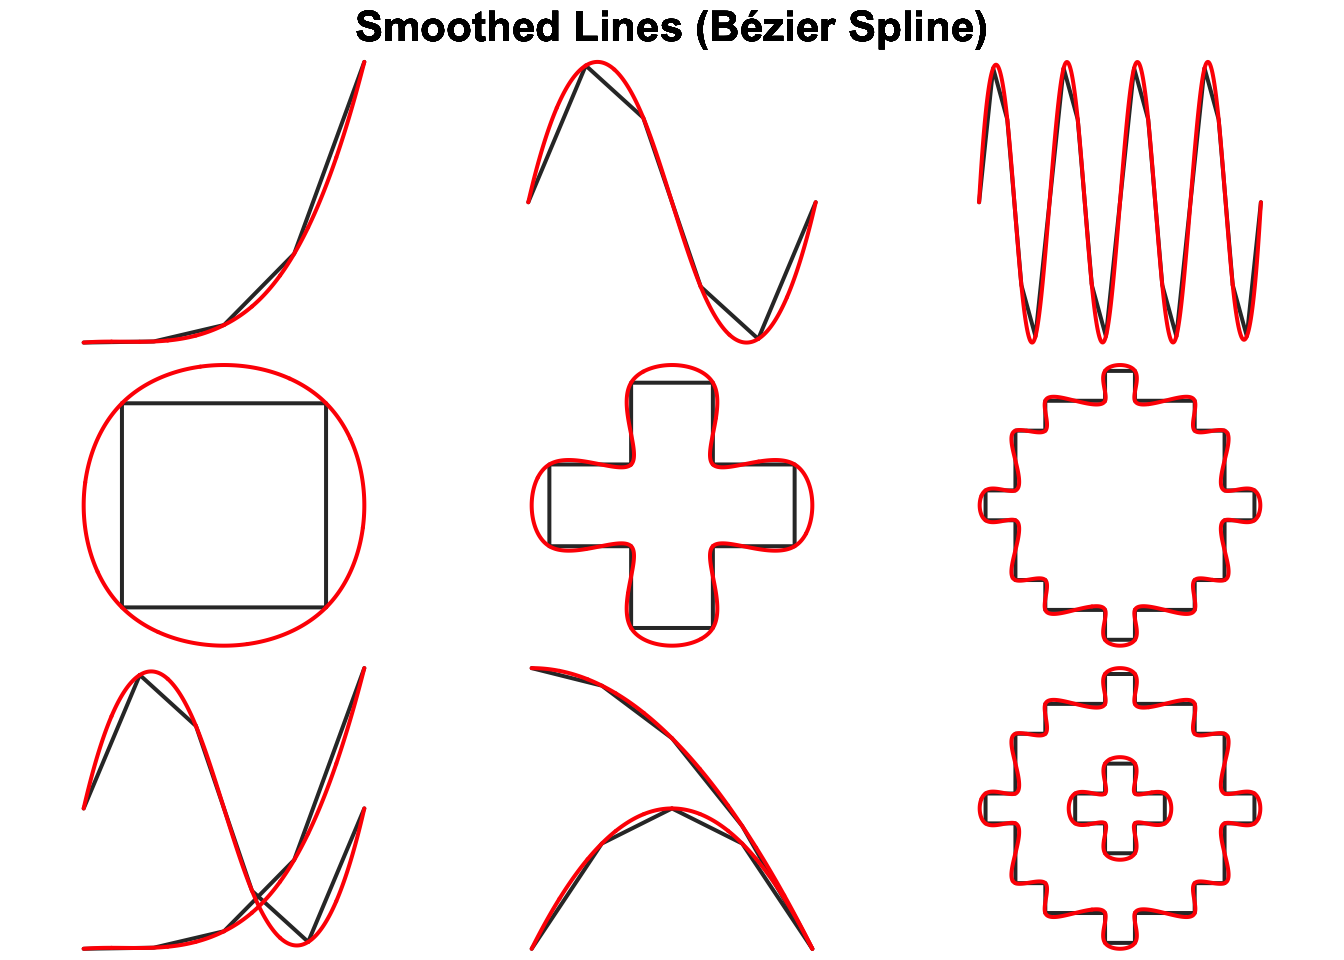
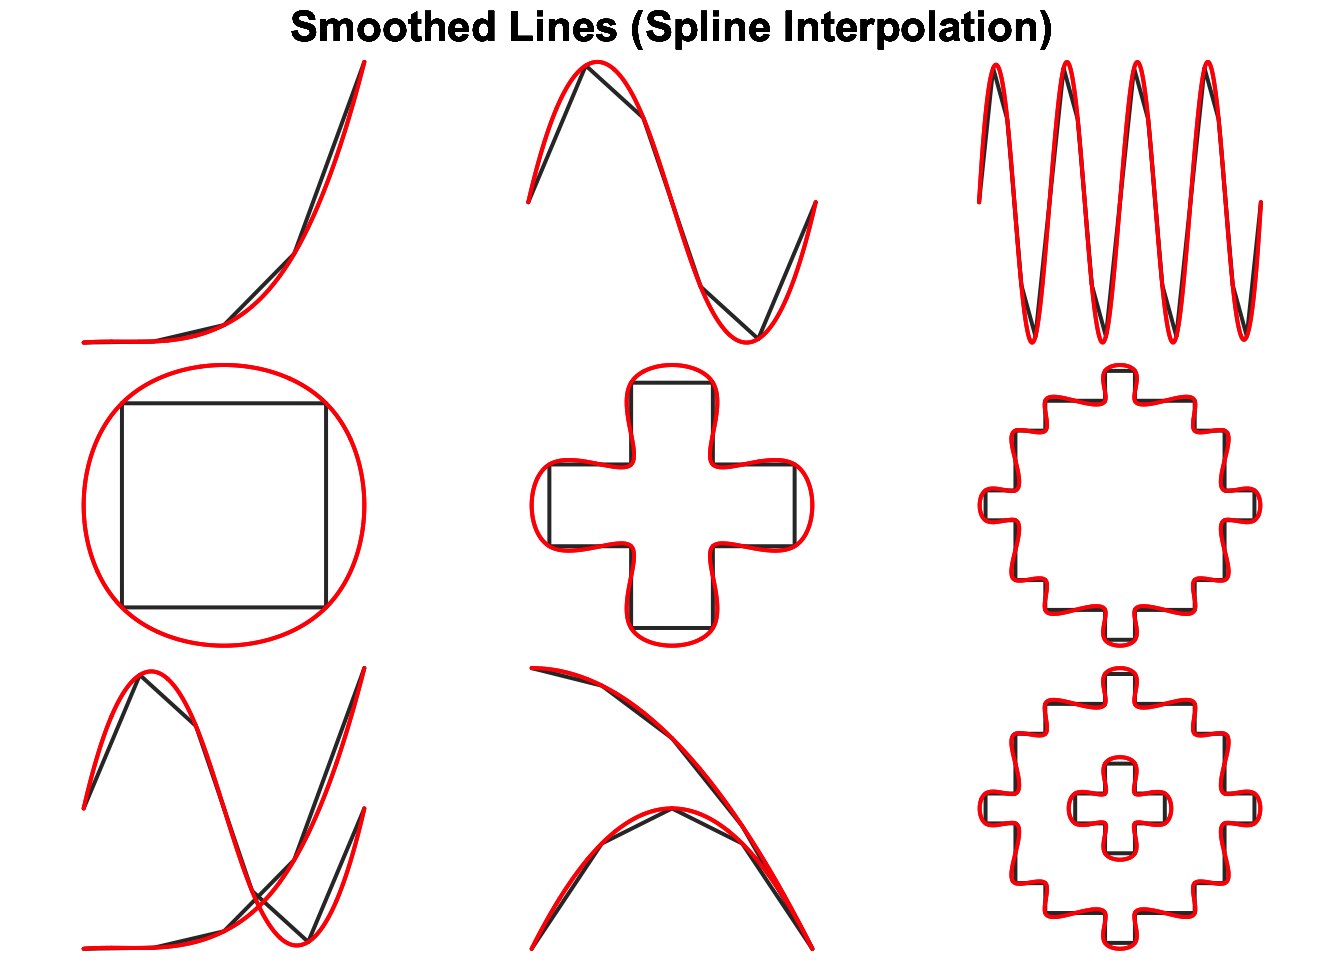
chaikin's corner cutting

Changed region(s): [[0.2188, 0.0, 0.7812, 0.0625]]

diff --git a/docs/reference/smooth.html b/docs/reference/smooth.html
@@ -87,7 +87,7 @@
     <p>Smooth a spatial feature</p>
     
 
-    <pre class="usage"><span class='fu'>smooth</span>(<span class='no'>x</span>, <span class='kw'>method</span> <span class='kw'>=</span> <span class='fu'>c</span>(<span class='st'>"spline"</span>))</pre>
+    <pre class="usage"><span class='fu'>smooth</span>(<span class='no'>x</span>, <span class='kw'>method</span> <span class='kw'>=</span> <span class='fu'>c</span>(<span class='st'>"spline"</span>, <span class='st'>"chaikin"</span>))</pre>
     
     <h2 class="hasAnchor" id="arguments"><a class="anchor" href="#arguments"></a> Arguments</h2>
     <table class="ref-arguments">
@@ -101,10 +101,12 @@ packages.</p></td>
       <th>method</th>
       <td><p>character; specifies the type of smoothing method to use.
 Possible methods are:</p><ul>
-<li><p><code>"spline"</code>: uses spline interpolation via the <code><a href='http://www.rdocumentation.org/packages/stats/topics/splinefun'>stats::spline()</a></code>
-function. This method interpolates between existing vertices and the
-resulting smoothed feature will pass through the vertices of the input
-feature.</p></li>
+<li><p><code>"spline"</code>: spline interpolation via the <code><a href='http://www.rdocumentation.org/packages/stats/topics/splinefun'>stats::spline()</a></code> function. This
+method interpolates between existing vertices and the resulting smoothed
+feature will pass through the vertices of the input feature.</p></li>
+<li><p><code>"chaikin"</code>: Chaikin's corner cutting algorithm, which smooths a line by
+iteratively replacing every point by two new points: one 25<!-- % of the way to -->
+the next point and one 25<!-- % of the way to the previous point. --></p></li>
 </ul></td>
     </tr>
     </table>
@@ -115,15 +117,22 @@ feature.</p></li>
     
     <h2 class="hasAnchor" id="references"><a class="anchor" href="#references"></a>References</h2>
 
-    <p>This function was inspired by the following StackExchange posts:</p><ul>
-<li><p><a href='https://stackoverflow.com/questions/26087772/#26089377'>Create polygon from set of points distributed</a></p></li>
-<li><p><a href='https://gis.stackexchange.com/questions/24827/#24929'>Smoothing polygons in contour map?</a></p></li>
+    <p>A variety of resources were used in the implementation of each of
+the methods in this function. The spline method was inspired by the
+following StackExchange posts:</p><ul>
+<li><p><a href='https://stackoverflow.com/questions/26087772/26089377'>Create polygon from set of points distributed</a></p></li>
+<li><p><a href='https://gis.stackexchange.com/questions/24827/24929'>Smoothing polygons in contour map?</a></p></li>
+</ul>
+    <p>Chaikin's corner curring algorithm was based on:</p><ul>
+<li><p><code>Chaikin, G. An algorithm for high speed curve generation. Computer Graphics and Image Processing 3 (1974), 346–349</code></p></li>
+<li><p><a href='https://stackoverflow.com/a/47255374/3591386'>Where to find Python implementation of Chaikin's corner cutting algorithm?</a></p></li>
 </ul>
     
 
     <h2 class="hasAnchor" id="examples"><a class="anchor" href="#examples"></a>Examples</h2>
-    <pre class="examples"><div class='input'><span class='fu'>library</span>(<span class='no'>sf</span>)</div><div class='output co'>#&gt; <span class='message'>Linking to GEOS 3.6.1, GDAL 2.1.3, proj.4 4.9.3</span></div><div class='input'><span class='co'># spline smoothing</span>
-<span class='co'># example polygons</span>
+    <pre class="examples"><div class='input'><span class='fu'>library</span>(<span class='no'>sf</span>)
+<span class='co'># spline interpolation</span>
+<span class='co'># polygons</span>
 <span class='no'>po</span> <span class='kw'>&lt;-</span> <span class='fu'>par</span>(<span class='kw'>mar</span> <span class='kw'>=</span> <span class='fu'>c</span>(<span class='fl'>0</span>, <span class='fl'>0</span>, <span class='fl'>0</span>, <span class='fl'>0</span>), <span class='kw'>oma</span> <span class='kw'>=</span> <span class='fu'>c</span>(<span class='fl'>0</span>, <span class='fl'>0</span>, <span class='fl'>2</span>, <span class='fl'>0</span>), <span class='kw'>mfrow</span> <span class='kw'>=</span> <span class='fu'>c</span>(<span class='fl'>3</span>, <span class='fl'>3</span>))
 <span class='kw'>for</span> (<span class='no'>i</span> <span class='kw'>in</span> <span class='fl'>1</span>:<span class='fu'>nrow</span>(<span class='no'>jagged_polygons</span>)) {
   <span class='no'>p</span> <span class='kw'>&lt;-</span> <span class='no'>jagged_polygons</span>[<span class='no'>i</span>, ]
@@ -132,9 +141,8 @@ feature.</p></li>
   <span class='fu'><a href='http://www.rdocumentation.org/packages/sf/topics/plot'>plot</a></span>(<span class='fu'><a href='http://www.rdocumentation.org/packages/sf/topics/st_geometry'>st_geometry</a></span>(<span class='no'>p</span>), <span class='kw'>col</span> <span class='kw'>=</span> <span class='st'>"grey20"</span>, <span class='kw'>border</span> <span class='kw'>=</span> <span class='fl'>NA</span>, <span class='kw'>add</span> <span class='kw'>=</span> <span class='fl'>TRUE</span>)
   <span class='fu'><a href='http://www.rdocumentation.org/packages/sf/topics/plot'>plot</a></span>(<span class='fu'><a href='http://www.rdocumentation.org/packages/sf/topics/st_geometry'>st_geometry</a></span>(<span class='no'>smoothed</span>), <span class='kw'>col</span> <span class='kw'>=</span> <span class='fl'>NA</span>, <span class='kw'>border</span> <span class='kw'>=</span> <span class='st'>"red"</span>, <span class='kw'>lwd</span> <span class='kw'>=</span> <span class='fl'>2</span>, <span class='kw'>add</span> <span class='kw'>=</span> <span class='fl'>TRUE</span>)
   <span class='fu'>title</span>(<span class='st'>"Smoothed Polygons (Spline Interpolation)"</span>, <span class='kw'>cex.main</span> <span class='kw'>=</span> <span class='fl'>2</span>, <span class='kw'>outer</span> <span class='kw'>=</span> <span class='fl'>TRUE</span>)
-}</div><div class='img'><img src='smooth-1.png' alt='' width='700' height='432.632880098887' /></div><div class='input'><span class='fu'>par</span>(<span class='no'>po</span>)
-
-<span class='co'># example lines</span>
+}</div><div class='img'><img src='smooth-9.png' alt='' width='700' height='432.632880098887' /></div><div class='input'><span class='fu'>par</span>(<span class='no'>po</span>)
+<span class='co'># lines</span>
 <span class='no'>po</span> <span class='kw'>&lt;-</span> <span class='fu'>par</span>(<span class='kw'>mar</span> <span class='kw'>=</span> <span class='fu'>c</span>(<span class='fl'>0</span>, <span class='fl'>0</span>, <span class='fl'>0</span>, <span class='fl'>0</span>), <span class='kw'>oma</span> <span class='kw'>=</span> <span class='fu'>c</span>(<span class='fl'>0</span>, <span class='fl'>0</span>, <span class='fl'>2</span>, <span class='fl'>0</span>), <span class='kw'>mfrow</span> <span class='kw'>=</span> <span class='fu'>c</span>(<span class='fl'>3</span>, <span class='fl'>3</span>))
 <span class='kw'>for</span> (<span class='no'>i</span> <span class='kw'>in</span> <span class='fl'>1</span>:<span class='fu'>nrow</span>(<span class='no'>jagged_lines</span>)) {
   <span class='no'>l</span> <span class='kw'>&lt;-</span> <span class='no'>jagged_lines</span>[<span class='no'>i</span>, ]
@@ -143,7 +151,27 @@ feature.</p></li>
   <span class='fu'><a href='http://www.rdocumentation.org/packages/sf/topics/plot'>plot</a></span>(<span class='fu'><a href='http://www.rdocumentation.org/packages/sf/topics/st_geometry'>st_geometry</a></span>(<span class='no'>l</span>), <span class='kw'>col</span> <span class='kw'>=</span> <span class='st'>"grey20"</span>, <span class='kw'>lwd</span> <span class='kw'>=</span> <span class='fl'>2</span>, <span class='kw'>add</span> <span class='kw'>=</span> <span class='fl'>TRUE</span>)
   <span class='fu'><a href='http://www.rdocumentation.org/packages/sf/topics/plot'>plot</a></span>(<span class='fu'><a href='http://www.rdocumentation.org/packages/sf/topics/st_geometry'>st_geometry</a></span>(<span class='no'>smoothed</span>), <span class='kw'>col</span> <span class='kw'>=</span> <span class='st'>"red"</span>, <span class='kw'>lwd</span> <span class='kw'>=</span> <span class='fl'>2</span>, <span class='kw'>add</span> <span class='kw'>=</span> <span class='fl'>TRUE</span>)
   <span class='fu'>title</span>(<span class='st'>"Smoothed Lines (Spline Interpolation)"</span>, <span class='kw'>cex.main</span> <span class='kw'>=</span> <span class='fl'>2</span>, <span class='kw'>outer</span> <span class='kw'>=</span> <span class='fl'>TRUE</span>)
-}</div><div class='img'><img src='smooth-2.png' alt='' width='700' height='432.632880098887' /></div><div class='input'><span class='fu'>par</span>(<span class='no'>po</span>)</div></pre>
+}</div><div class='img'><img src='smooth-10.png' alt='' width='700' height='432.632880098887' /></div><div class='input'><span class='fu'>par</span>(<span class='no'>po</span>)
+
+<span class='co'># chaikin's corner cutting</span>
+<span class='co'># polygons</span>
+<span class='no'>po</span> <span class='kw'>&lt;-</span> <span class='fu'>par</span>(<span class='kw'>mar</span> <span class='kw'>=</span> <span class='fu'>c</span>(<span class='fl'>0</span>, <span class='fl'>0</span>, <span class='fl'>0</span>, <span class='fl'>0</span>), <span class='kw'>oma</span> <span class='kw'>=</span> <span class='fu'>c</span>(<span class='fl'>0</span>, <span class='fl'>0</span>, <span class='fl'>2</span>, <span class='fl'>0</span>), <span class='kw'>mfrow</span> <span class='kw'>=</span> <span class='fu'>c</span>(<span class='fl'>3</span>, <span class='fl'>3</span>))
+<span class='kw'>for</span> (<span class='no'>i</span> <span class='kw'>in</span> <span class='fl'>1</span>:<span class='fu'>nrow</span>(<span class='no'>jagged_polygons</span>)) {
+  <span class='no'>p</span> <span class='kw'>&lt;-</span> <span class='no'>jagged_polygons</span>[<span class='no'>i</span>, ]
+  <span class='no'>smoothed</span> <span class='kw'>&lt;-</span> <span class='fu'>smooth</span>(<span class='no'>p</span>, <span class='kw'>method</span> <span class='kw'>=</span> <span class='st'>"chaikin"</span>)
+  <span class='fu'><a href='http://www.rdocumentation.org/packages/sf/topics/plot'>plot</a></span>(<span class='fu'><a href='http://www.rdocumentation.org/packages/sf/topics/st_geometry'>st_geometry</a></span>(<span class='no'>p</span>), <span class='kw'>col</span> <span class='kw'>=</span> <span class='st'>"grey20"</span>, <span class='kw'>border</span> <span class='kw'>=</span> <span class='fl'>NA</span>)
+  <span class='fu'><a href='http://www.rdocumentation.org/packages/sf/topics/plot'>plot</a></span>(<span class='fu'><a href='http://www.rdocumentation.org/packages/sf/topics/st_geometry'>st_geometry</a></span>(<span class='no'>smoothed</span>), <span class='kw'>col</span> <span class='kw'>=</span> <span class='fl'>NA</span>, <span class='kw'>border</span> <span class='kw'>=</span> <span class='st'>"red"</span>, <span class='kw'>lwd</span> <span class='kw'>=</span> <span class='fl'>2</span>, <span class='kw'>add</span> <span class='kw'>=</span> <span class='fl'>TRUE</span>)
+  <span class='fu'>title</span>(<span class='st'>"Smoothed Polygons (Chaikin's Corner Cutting)"</span>, <span class='kw'>cex.main</span> <span class='kw'>=</span> <span class='fl'>2</span>, <span class='kw'>outer</span> <span class='kw'>=</span> <span class='fl'>TRUE</span>)
+}</div><div class='img'><img src='smooth-11.png' alt='' width='700' height='432.632880098887' /></div><div class='input'><span class='fu'>par</span>(<span class='no'>po</span>)
+<span class='co'># lines</span>
+<span class='no'>po</span> <span class='kw'>&lt;-</span> <span class='fu'>par</span>(<span class='kw'>mar</span> <span class='kw'>=</span> <span class='fu'>c</span>(<span class='fl'>0</span>, <span class='fl'>0</span>, <span class='fl'>0</span>, <span class='fl'>0</span>), <span class='kw'>oma</span> <span class='kw'>=</span> <span class='fu'>c</span>(<span class='fl'>0</span>, <span class='fl'>0</span>, <span class='fl'>2</span>, <span class='fl'>0</span>), <span class='kw'>mfrow</span> <span class='kw'>=</span> <span class='fu'>c</span>(<span class='fl'>3</span>, <span class='fl'>3</span>))
+<span class='kw'>for</span> (<span class='no'>i</span> <span class='kw'>in</span> <span class='fl'>1</span>:<span class='fu'>nrow</span>(<span class='no'>jagged_lines</span>)) {
+  <span class='no'>l</span> <span class='kw'>&lt;-</span> <span class='no'>jagged_lines</span>[<span class='no'>i</span>, ]
+  <span class='no'>smoothed</span> <span class='kw'>&lt;-</span> <span class='fu'>smooth</span>(<span class='no'>l</span>, <span class='kw'>method</span> <span class='kw'>=</span> <span class='st'>"chaikin"</span>)
+  <span class='fu'><a href='http://www.rdocumentation.org/packages/sf/topics/plot'>plot</a></span>(<span class='fu'><a href='http://www.rdocumentation.org/packages/sf/topics/st_geometry'>st_geometry</a></span>(<span class='no'>l</span>), <span class='kw'>col</span> <span class='kw'>=</span> <span class='st'>"grey20"</span>, <span class='kw'>lwd</span> <span class='kw'>=</span> <span class='fl'>2</span>)
+  <span class='fu'><a href='http://www.rdocumentation.org/packages/sf/topics/plot'>plot</a></span>(<span class='fu'><a href='http://www.rdocumentation.org/packages/sf/topics/st_geometry'>st_geometry</a></span>(<span class='no'>smoothed</span>), <span class='kw'>col</span> <span class='kw'>=</span> <span class='st'>"red"</span>, <span class='kw'>lwd</span> <span class='kw'>=</span> <span class='fl'>2</span>, <span class='kw'>add</span> <span class='kw'>=</span> <span class='fl'>TRUE</span>)
+  <span class='fu'>title</span>(<span class='st'>"Smoothed Lines (Chaikin's Corner Cutting)"</span>, <span class='kw'>cex.main</span> <span class='kw'>=</span> <span class='fl'>2</span>, <span class='kw'>outer</span> <span class='kw'>=</span> <span class='fl'>TRUE</span>)
+}</div><div class='img'><img src='smooth-12.png' alt='' width='700' height='432.632880098887' /></div><div class='input'><span class='fu'>par</span>(<span class='no'>po</span>)</div></pre>
   </div>
   <div class="col-md-3 hidden-xs hidden-sm" id="sidebar">
     <h2>Contents</h2>

diff --git a/docs/index.html b/docs/index.html
@@ -70,6 +70,8 @@
 <ul>
 <li>
 <strong>Spline interpolation</strong>: smoothing using spline interpolation via the <code>spline()</code> function. This method interpolates between existing vertices and the resulting smoothed feature will pass through the vertices of the input feature.</li>
+<li>
+<strong>Chaikin’s corner cutting algorithm</strong>: smoothing using Chaikin’s corner cutting algorithm, which iteratively replacing every point by two new points: one 25% of the way to the next point and one 25% of the way to the previous point.</li>
 </ul>
 <div id="installation" class="section level2">
 <h2 class="hasAnchor">
@@ -81,28 +83,27 @@ devtools<span class="op">::</span><span class="kw"><a href="http://www.rdocument
 <div id="example" class="section level2">
 <h2 class="hasAnchor">
 <a href="#example" class="anchor"></a>Example</h2>
-<p>Two example feature sets are included in this package. <code>jagged_polygons</code> contains 9 polygons with sharp edges for smoothing, some have holes and some are multipart polygons. These can be smoothed with:</p>
+<p>Two example feature sets are included in this package. <code>jagged_polygons</code> contains 9 polygons with sharp edges for smoothing, some have holes and some are multipart polygons. These can be smoothed using Chaikin’s corner cutting algorithm with:</p>
 <div class="sourceCode"><pre class="sourceCode r"><code class="sourceCode r"><span class="kw">library</span>(sf)
 <span class="kw">library</span>(smoothr)
 <span class="kw">par</span>(<span class="dt">mar =</span> <span class="kw">c</span>(<span class="dv">0</span>, <span class="dv">0</span>, <span class="dv">0</span>, <span class="dv">0</span>), <span class="dt">oma =</span> <span class="kw">c</span>(<span class="dv">0</span>, <span class="dv">0</span>, <span class="dv">2</span>, <span class="dv">0</span>), <span class="dt">mfrow =</span> <span class="kw">c</span>(<span class="dv">3</span>, <span class="dv">3</span>))
 <span class="cf">for</span> (i <span class="cf">in</span> <span class="dv">1</span><span class="op">:</span><span class="kw">nrow</span>(jagged_polygons)) {
   p &lt;-<span class="st"> </span>jagged_polygons[i, ]
-  smoothed &lt;-<span class="st"> </span><span class="kw"><a href="reference/smooth.html">smooth</a></span>(p, <span class="dt">method =</span> <span class="st">"spline"</span>)
-  <span class="kw"><a href="http://www.rdocumentation.org/packages/sf/topics/plot">plot</a></span>(<span class="kw"><a href="http://www.rdocumentation.org/packages/sf/topics/st_geometry">st_geometry</a></span>(smoothed), <span class="dt">col =</span> <span class="ot">NA</span>, <span class="dt">border =</span> <span class="ot">NA</span>)
-  <span class="kw"><a href="http://www.rdocumentation.org/packages/sf/topics/plot">plot</a></span>(<span class="kw"><a href="http://www.rdocumentation.org/packages/sf/topics/st_geometry">st_geometry</a></span>(p), <span class="dt">col =</span> <span class="st">"grey20"</span>, <span class="dt">border =</span> <span class="ot">NA</span>, <span class="dt">add =</span> <span class="ot">TRUE</span>)
+  smoothed &lt;-<span class="st"> </span><span class="kw"><a href="reference/smooth.html">smooth</a></span>(p, <span class="dt">method =</span> <span class="st">"chaikin"</span>)
+  <span class="kw"><a href="http://www.rdocumentation.org/packages/sf/topics/plot">plot</a></span>(<span class="kw"><a href="http://www.rdocumentation.org/packages/sf/topics/st_geometry">st_geometry</a></span>(p), <span class="dt">col =</span> <span class="st">"grey20"</span>, <span class="dt">border =</span> <span class="ot">NA</span>)
   <span class="kw"><a href="http://www.rdocumentation.org/packages/sf/topics/plot">plot</a></span>(<span class="kw"><a href="http://www.rdocumentation.org/packages/sf/topics/st_geometry">st_geometry</a></span>(smoothed), <span class="dt">col =</span> <span class="ot">NA</span>, <span class="dt">border =</span> <span class="st">"red"</span>, <span class="dt">lwd =</span> <span class="dv">2</span>, <span class="dt">add =</span> <span class="ot">TRUE</span>)
-  <span class="kw">title</span>(<span class="st">"Smoothed Polygons (Bézier Spline)"</span>, <span class="dt">cex.main =</span> <span class="dv">2</span>, <span class="dt">outer =</span> <span class="ot">TRUE</span>)
+  <span class="kw">title</span>(<span class="st">"Smoothed Polygons (Chaikin's Corner Cutting)"</span>, <span class="dt">cex.main =</span> <span class="dv">2</span>, <span class="dt">outer =</span> <span class="ot">TRUE</span>)
 }</code></pre></div>
 <p><img src="README-smooth-polygons-1.png" width="672"></p>
-<p><code>jagged_polygons</code> contains 9 lines with sharp edges for smoothing, some are closed loops requiring special treatment of the endpoints and some are multipart lines. These can be smoothed with:</p>
+<p><code>jagged_polygons</code> contains 9 lines with sharp edges for smoothing, some are closed loops requiring special treatment of the endpoints and some are multipart lines. For variety, let’s smooth these using spline interpolation:</p>
 <div class="sourceCode"><pre class="sourceCode r"><code class="sourceCode r"><span class="kw">par</span>(<span class="dt">mar =</span> <span class="kw">c</span>(<span class="dv">0</span>, <span class="dv">0</span>, <span class="dv">0</span>, <span class="dv">0</span>), <span class="dt">oma =</span> <span class="kw">c</span>(<span class="dv">0</span>, <span class="dv">0</span>, <span class="dv">2</span>, <span class="dv">0</span>), <span class="dt">mfrow =</span> <span class="kw">c</span>(<span class="dv">3</span>, <span class="dv">3</span>))
 <span class="cf">for</span> (i <span class="cf">in</span> <span class="dv">1</span><span class="op">:</span><span class="kw">nrow</span>(jagged_lines)) {
   l &lt;-<span class="st"> </span>jagged_lines[i, ]
   smoothed &lt;-<span class="st"> </span><span class="kw"><a href="reference/smooth.html">smooth</a></span>(l, <span class="dt">method =</span> <span class="st">"spline"</span>)
-  <span class="kw"><a href="http://www.rdocumentation.org/packages/sf/topics/plot">plot</a></span>(<span class="kw"><a href="http://www.rdocumentation.org/packages/sf/topics/st_geometry">st_geometry</a></span>(smoothed), <span class="dt">col =</span> <span class="ot">NA</span>)
+  <span class="kw"><a href="http://www.rdocumentation.org/packages/sf/topics/plot">plot</a></span>(<span class="kw"><a href="http://www.rdocumentation.org/packages/sf/topics/st_geometry">st_geometry</a></span>(smoothed), <span class="dt">col =</span> <span class="st">"red"</span>, <span class="dt">lwd =</span> <span class="dv">2</span>)
   <span class="kw"><a href="http://www.rdocumentation.org/packages/sf/topics/plot">plot</a></span>(<span class="kw"><a href="http://www.rdocumentation.org/packages/sf/topics/st_geometry">st_geometry</a></span>(l), <span class="dt">col =</span> <span class="st">"grey20"</span>, <span class="dt">lwd =</span> <span class="dv">2</span>, <span class="dt">add =</span> <span class="ot">TRUE</span>)
   <span class="kw"><a href="http://www.rdocumentation.org/packages/sf/topics/plot">plot</a></span>(<span class="kw"><a href="http://www.rdocumentation.org/packages/sf/topics/st_geometry">st_geometry</a></span>(smoothed), <span class="dt">col =</span> <span class="st">"red"</span>, <span class="dt">lwd =</span> <span class="dv">2</span>, <span class="dt">add =</span> <span class="ot">TRUE</span>)
-  <span class="kw">title</span>(<span class="st">"Smoothed Lines (Bézier Spline)"</span>, <span class="dt">cex.main =</span> <span class="dv">2</span>, <span class="dt">outer =</span> <span class="ot">TRUE</span>)
+  <span class="kw">title</span>(<span class="st">"Smoothed Lines (Spline Interpolation)"</span>, <span class="dt">cex.main =</span> <span class="dv">2</span>, <span class="dt">outer =</span> <span class="ot">TRUE</span>)
 }</code></pre></div>
 <p><img src="README-smooth-lines-1.png" width="672"></p>
 </div>

diff --git a/README.md b/README.md
@@ -8,6 +8,7 @@ smoothr
 The goal of `smoothr` is to offer a variety of methods for smoothing spatial features (i.e. polygons and lines). The application is to to make edges appear more natural or aesthetically pleasing, especially when converting raster data to vector format. This package offers support for both `sp` and `sf` spatial objects, and the following smoothing methods:
 
 -   **Spline interpolation**: smoothing using spline interpolation via the `spline()` function. This method interpolates between existing vertices and the resulting smoothed feature will pass through the vertices of the input feature.
+-   **Chaikin's corner cutting algorithm**: smoothing using Chaikin's corner cutting algorithm, which iteratively replacing every point by two new points: one 25% of the way to the next point and one 25% of the way to the previous point.
 
 Installation
 ------------
@@ -22,7 +23,7 @@ devtools::install_github("mstrimas/smoothr")
 Example
 -------
 
-Two example feature sets are included in this package. `jagged_polygons` contains 9 polygons with sharp edges for smoothing, some have holes and some are multipart polygons. These can be smoothed with:
+Two example feature sets are included in this package. `jagged_polygons` contains 9 polygons with sharp edges for smoothing, some have holes and some are multipart polygons. These can be smoothed using Chaikin's corner cutting algorithm with:
 
 ``` r
 library(sf)
@@ -30,27 +31,26 @@ library(smoothr)
 par(mar = c(0, 0, 0, 0), oma = c(0, 0, 2, 0), mfrow = c(3, 3))
 for (i in 1:nrow(jagged_polygons)) {
   p <- jagged_polygons[i, ]
-  smoothed <- smooth(p, method = "spline")
-  plot(st_geometry(smoothed), col = NA, border = NA)
-  plot(st_geometry(p), col = "grey20", border = NA, add = TRUE)
+  smoothed <- smooth(p, method = "chaikin")
+  plot(st_geometry(p), col = "grey20", border = NA)
   plot(st_geometry(smoothed), col = NA, border = "red", lwd = 2, add = TRUE)
-  title("Smoothed Polygons (Bézier Spline)", cex.main = 2, outer = TRUE)
+  title("Smoothed Polygons (Chaikin's Corner Cutting)", cex.main = 2, outer = TRUE)
 }
 ```
 
 ![](README-smooth-polygons-1.png)
 
-`jagged_polygons` contains 9 lines with sharp edges for smoothing, some are closed loops requiring special treatment of the endpoints and some are multipart lines. These can be smoothed with:
+`jagged_polygons` contains 9 lines with sharp edges for smoothing, some are closed loops requiring special treatment of the endpoints and some are multipart lines. For variety, let's smooth these using spline interpolation:
 
 ``` r
 par(mar = c(0, 0, 0, 0), oma = c(0, 0, 2, 0), mfrow = c(3, 3))
 for (i in 1:nrow(jagged_lines)) {
   l <- jagged_lines[i, ]
   smoothed <- smooth(l, method = "spline")
-  plot(st_geometry(smoothed), col = NA)
+  plot(st_geometry(smoothed), col = "red", lwd = 2)
   plot(st_geometry(l), col = "grey20", lwd = 2, add = TRUE)
   plot(st_geometry(smoothed), col = "red", lwd = 2, add = TRUE)
-  title("Smoothed Lines (Bézier Spline)", cex.main = 2, outer = TRUE)
+  title("Smoothed Lines (Spline Interpolation)", cex.main = 2, outer = TRUE)
 }
 ```
 
